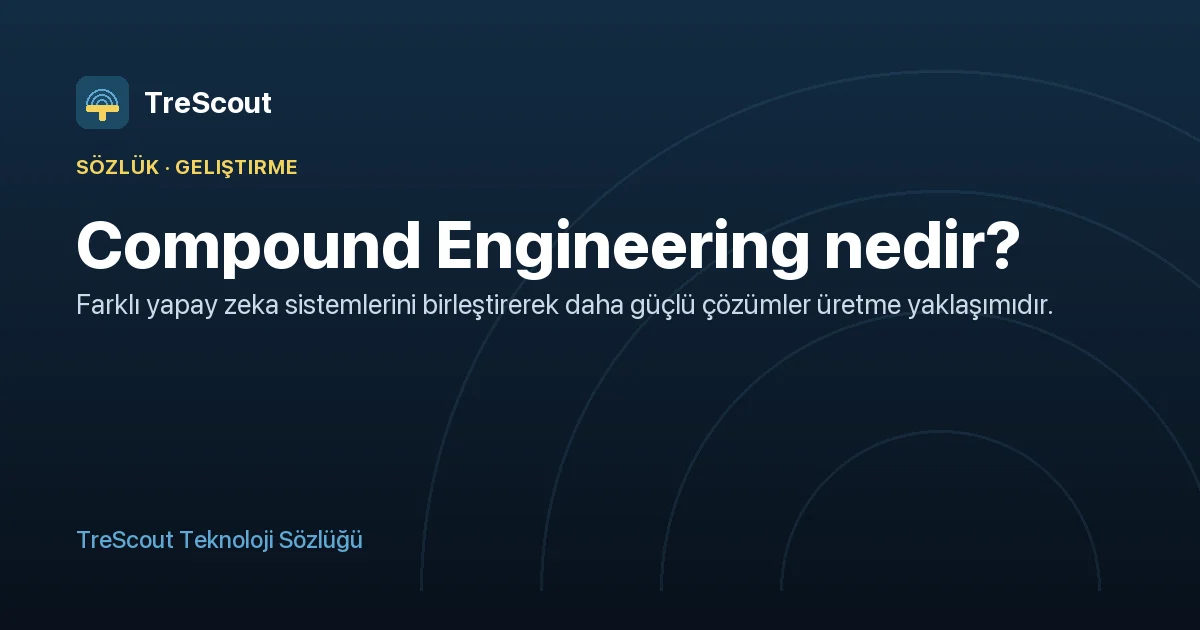
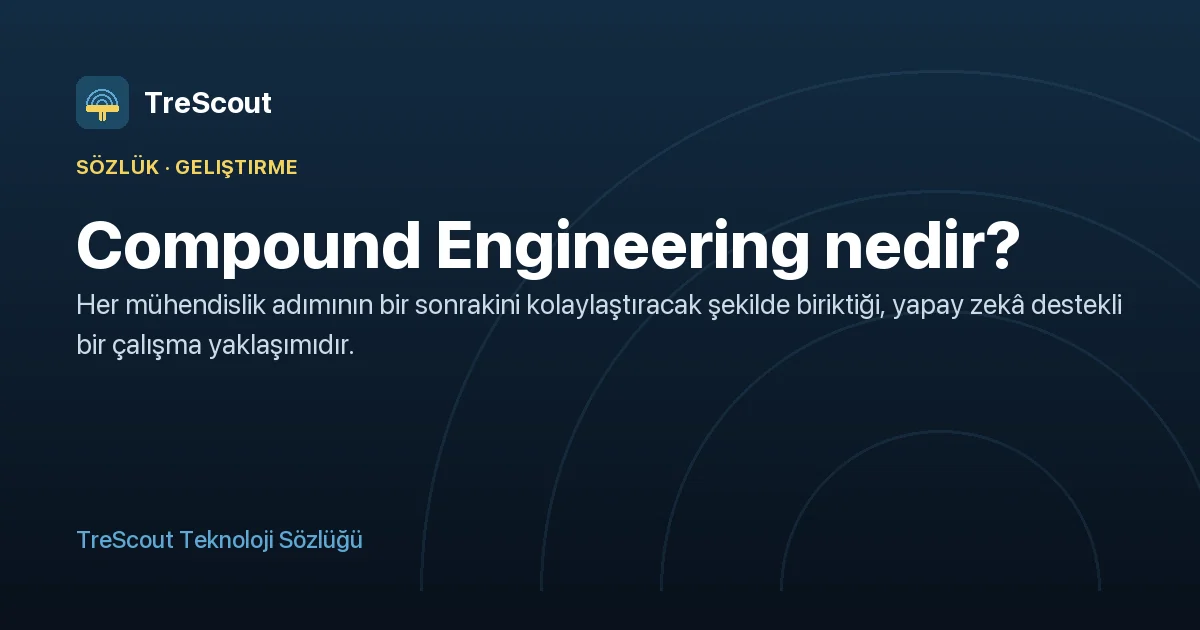
fix(claude-code): Sözlük · 2 tanım doğruluk düzeltmesi
İçerik doğruluk incelemesi sonucu: knowledge-graph kısa tanımı 'görselleştiren' → 'birbirine bağlayan yapılandırılmış bilgi ağı' (KG görselleştirme değil, ilişki temsili). compound-engineering kısa+tanım 'farklı AI sistemlerini birleştirme' yanlış çerçevesinden gerçek anlamına düzeltildi: her mühendislik adımının bir sonrakini kolaylaştıracak şekilde biriktiği AI-destekli yaklaşım. Sayfa + .md + manifest + index + OG kartı güncellendi.

Changed region(s): [[0.0617, 0.4524, 0.925, 0.573]]

diff --git a/dictionary/compound-engineering/index.html b/dictionary/compound-engineering/index.html
@@ -4,11 +4,11 @@
 <meta charset="UTF-8">
 <meta name="viewport" content="width=device-width, initial-scale=1">
 <title>Compound Engineering nedir? · TreScout Sözlük</title>
-<meta name="description" content="Farklı yapay zeka sistemlerini birleştirerek daha güçlü çözümler üretme yaklaşımıdır.">
+<meta name="description" content="Her mühendislik adımının bir sonrakini kolaylaştıracak şekilde biriktiği, yapay zekâ destekli bir çalışma yaklaşımıdır.">
 <link rel="icon" type="image/svg+xml" href="/favicon.svg">
 <link rel="canonical" href="https://trescout.com/dictionary/compound-engineering/">
 <meta property="og:title" content="Compound Engineering nedir?">
-<meta property="og:description" content="Farklı yapay zeka sistemlerini birleştirerek daha güçlü çözümler üretme yaklaşımıdır.">
+<meta property="og:description" content="Her mühendislik adımının bir sonrakini kolaylaştıracak şekilde biriktiği, yapay zekâ destekli bir çalışma yaklaşımıdır.">
 <meta property="og:url" content="https://trescout.com/dictionary/compound-engineering/">
 <meta property="og:type" content="article">
 <meta property="og:locale" content="tr_TR">
@@ -25,7 +25,7 @@
   "@type": "DefinedTerm",
   "name": "Compound Engineering",
   "inLanguage": "tr",
-  "description": "Compound engineering, tek bir modelin sınırlarını aşmak için farklı yapay zeka araçlarını, veri kaynaklarını ve mantıksal süreçleri bir araya getirme disiplinidir. Daha akıllı ve çok yönlü sistemler kurmayı hedefler.",
+  "description": "Compound engineering, yazılım geliştirmenin her adımını (planlama, kodlama, inceleme, öğrenme) yapay zekâ ile yürütüp çıkan öğrenmeleri kaydederek bir sonraki işi kolaylaştırmayı hedefler. Böylece kazanımlar zamanla birikir, ekip her seferinde daha hızlı ve tutarlı çalışır.",
   "inDefinedTermSet": {
     "@type": "DefinedTermSet",
     "name": "TreScout Teknoloji Sözlüğü",
@@ -73,8 +73,8 @@
 <div class="disc-top"><span class="disc-eyebrow">Sözlük · Geliştirme</span><time class="dict-time" datetime="2026-06-03">Son güncelleme: 3 Haziran 2026</time></div>
 <h1 class="disc-title">Compound Engineering <span class="disc-accent">nedir?</span></h1>
 
-<p class="disc-lead">Farklı yapay zeka sistemlerini birleştirerek daha güçlü çözümler üretme yaklaşımıdır.</p>
-<section class="disc-sec"><h2>Tanım</h2><p>Compound engineering, tek bir modelin sınırlarını aşmak için farklı yapay zeka araçlarını, veri kaynaklarını ve mantıksal süreçleri bir araya getirme disiplinidir. Daha akıllı ve çok yönlü sistemler kurmayı hedefler.</p></section><div class="dict-analogy">Şöyle düşünün: Sadece bir tornavida kullanmak yerine, bir matkap, testere ve ölçüm cihazını birleştirerek tam bir atölye kurmak gibidir.</div><section class="disc-sec"><h2>Nasıl çalışır?</h2><p>Bir yapay zeka modeli bir görevi yaparken, diğeri veriyi kontrol eder, üçüncüsü ise sonucu kullanıcıya sunar. Bu parçalar bir zincir gibi birbirine bağlanarak tek bir sistem gibi çalışır.</p></section><section class="disc-sec"><h2>Nerede kullanılır?</h2><p>Karmaşık iş akışlarını otomatize eden yapay zeka ajanlarında ve gelişmiş veri analiz platformlarında kullanılır.</p></section><section class="disc-sec"><h2>Sık karıştırılanlar</h2><p>Sadece tek bir model eğitmek olan &#x27;fine-tuning&#x27; ile karıştırılır, ancak compound engineering mevcut modellerin yeteneklerini birleştirmeye odaklanır.</p></section><section class="disc-sec"><h2>Sıkça sorulanlar</h2><div class="dict-faq"><div class="dict-faq-item"><p class="dict-faq-q">Neden tek bir model yetmiyor?</p><p class="dict-faq-a">Karmaşık görevlerde tek bir model her zaman en iyi sonucu vermeyebilir, parçaları birleştirmek hata payını azaltır.</p></div><div class="dict-faq-item"><p class="dict-faq-q">Bu yaklaşım zor mu?</p><p class="dict-faq-a">Parçaların birbirine uyumlu çalışmasını sağlamak ciddi bir planlama ve mühendislik gerektirir.</p></div></div></section><section class="disc-sec"><h2>İlgili terimler</h2><div class="dict-related"><a href="/dictionary/compound-engineering/">Compound Engineering</a><a href="/dictionary/ai-agent/">AI Agent</a><a href="/dictionary/agentic-ai/">Agentic AI</a><a href="/dictionary/rag/">RAG</a></div></section>
+<p class="disc-lead">Her mühendislik adımının bir sonrakini kolaylaştıracak şekilde biriktiği, yapay zekâ destekli bir çalışma yaklaşımıdır.</p>
+<section class="disc-sec"><h2>Tanım</h2><p>Compound engineering, yazılım geliştirmenin her adımını (planlama, kodlama, inceleme, öğrenme) yapay zekâ ile yürütüp çıkan öğrenmeleri kaydederek bir sonraki işi kolaylaştırmayı hedefler. Böylece kazanımlar zamanla birikir, ekip her seferinde daha hızlı ve tutarlı çalışır.</p></section><div class="dict-analogy">Şöyle düşünün: Sadece bir tornavida kullanmak yerine, bir matkap, testere ve ölçüm cihazını birleştirerek tam bir atölye kurmak gibidir.</div><section class="disc-sec"><h2>Nasıl çalışır?</h2><p>Bir yapay zeka modeli bir görevi yaparken, diğeri veriyi kontrol eder, üçüncüsü ise sonucu kullanıcıya sunar. Bu parçalar bir zincir gibi birbirine bağlanarak tek bir sistem gibi çalışır.</p></section><section class="disc-sec"><h2>Nerede kullanılır?</h2><p>Karmaşık iş akışlarını otomatize eden yapay zeka ajanlarında ve gelişmiş veri analiz platformlarında kullanılır.</p></section><section class="disc-sec"><h2>Sık karıştırılanlar</h2><p>Sadece tek bir model eğitmek olan &#x27;fine-tuning&#x27; ile karıştırılır, ancak compound engineering mevcut modellerin yeteneklerini birleştirmeye odaklanır.</p></section><section class="disc-sec"><h2>Sıkça sorulanlar</h2><div class="dict-faq"><div class="dict-faq-item"><p class="dict-faq-q">Neden tek bir model yetmiyor?</p><p class="dict-faq-a">Karmaşık görevlerde tek bir model her zaman en iyi sonucu vermeyebilir, parçaları birleştirmek hata payını azaltır.</p></div><div class="dict-faq-item"><p class="dict-faq-q">Bu yaklaşım zor mu?</p><p class="dict-faq-a">Parçaların birbirine uyumlu çalışmasını sağlamak ciddi bir planlama ve mühendislik gerektirir.</p></div></div></section><section class="disc-sec"><h2>İlgili terimler</h2><div class="dict-related"><a href="/dictionary/compound-engineering/">Compound Engineering</a><a href="/dictionary/ai-agent/">AI Agent</a><a href="/dictionary/agentic-ai/">Agentic AI</a><a href="/dictionary/rag/">RAG</a></div></section>
 <section class="disc-sec"><h2>İlgili araçlar</h2><div class="dict-related"><a href="/discover/compound-engineering-plugin/">Compound Engineering</a></div></section>
 <aside class="disc-cta"><p><strong>Her sabah Sektörden Terimler e-postanızda.</strong> Teknoloji dünyasında her gün yeni bir terim çıkıyor; geride kalmamak için TreScout'a katılın.</p><form class="cta-form disc-cta-form js-subscribe" data-source="dictionary" novalidate><div class="form-row"><input class="input" type="email" name="email" placeholder="E-postanızı yazın" autocomplete="email" required><button class="btn btn-primary" type="submit">Erken erişim</button></div><label class="form-consent"><input type="checkbox" name="consent" required><span><a href="/privacy.html" target="_blank" rel="noopener">Aydınlatma Metni</a>'ni okudum, e-postamın bu amaçla işlenmesini onaylıyorum.</span></label><input type="text" name="website" tabindex="-1" autocomplete="off" aria-hidden="true" class="hp-field"></form><a class="btn btn-ghost disc-cta-all" href="/dictionary/">Tüm sözlük →</a></aside>
 <p class="disc-disclaimer">Bu açıklama TreScout için sade dille hazırlandı · yanlış ya da eksik gördüğünüz bir şey olursa <a href="mailto:hello@trescout.com">hello@trescout.com</a>. TreScout her gün GitHub, Hacker News ve HuggingFace trendlerini Türkçe özetler.</p>

diff --git a/dictionary/index.html b/dictionary/index.html
@@ -338,7 +338,7 @@
 <a class="dict-card" data-cat="dev" data-search="API Application Programming Interface İki farklı yazılımın birbirleriyle konuşmasını sağlayan dijital köprüdür. api" href="/dictionary/api/"><h2 class="dict-card-term">API</h2><p class="dict-card-en">Application Programming Interface</p><p class="dict-card-kisa">İki farklı yazılımın birbirleriyle konuşmasını sağlayan dijital köprüdür.</p></a>
 <a class="dict-card" data-cat="ai" data-search="Artificial Intelligence AI · Yapay Zekâ İnsan zekâsını taklit ederek öğrenme, mantık yürütme ve problem çözme yeteneğine sahip bilgisayar sistemleri. artificial-intelligence" href="/dictionary/artificial-intelligence/"><h2 class="dict-card-term">Artificial Intelligence</h2><p class="dict-card-en">AI · Yapay Zekâ</p><p class="dict-card-kisa">İnsan zekâsını taklit ederek öğrenme, mantık yürütme ve problem çözme yeteneğine sahip bilgisayar sistemleri.</p></a>
 <a class="dict-card" data-cat="dev" data-search="CLI Command Line Interface Bilgisayara komutları yazılı metinler ile verme yöntemidir. cli" href="/dictionary/cli/"><h2 class="dict-card-term">CLI</h2><p class="dict-card-en">Command Line Interface</p><p class="dict-card-kisa">Bilgisayara komutları yazılı metinler ile verme yöntemidir.</p></a>
-<a class="dict-card" data-cat="dev" data-search="Compound Engineering  Farklı yapay zeka sistemlerini birleştirerek daha güçlü çözümler üretme yaklaşımıdır. compound-engineering" href="/dictionary/compound-engineering/"><h2 class="dict-card-term">Compound Engineering</h2><p class="dict-card-kisa">Farklı yapay zeka sistemlerini birleştirerek daha güçlü çözümler üretme yaklaşımıdır.</p></a>
+<a class="dict-card" data-cat="dev" data-search="Compound Engineering  Her mühendislik adımının bir sonrakini kolaylaştıracak şekilde biriktiği, yapay zekâ destekli bir çalışma yaklaşımıdır. compound-engineering" href="/dictionary/compound-engineering/"><h2 class="dict-card-term">Compound Engineering</h2><p class="dict-card-kisa">Her mühendislik adımının bir sonrakini kolaylaştıracak şekilde biriktiği, yapay zekâ destekli bir çalışma yaklaşımıdır.</p></a>
 <a class="dict-card" data-cat="ai" data-search="Context Window  Yapay zekanın tek seferde hatırlayabildiği ve işleyebildiği bilgi kapasitesidir. context-window" href="/dictionary/context-window/"><h2 class="dict-card-term">Context Window</h2><p class="dict-card-kisa">Yapay zekanın tek seferde hatırlayabildiği ve işleyebildiği bilgi kapasitesidir.</p></a>
 <a class="dict-card" data-cat="data" data-search="Data Pipeline  Verilerin bir yerden alınıp işlenerek başka bir yere taşınması sürecidir. data-pipeline" href="/dictionary/data-pipeline/"><h2 class="dict-card-term">Data Pipeline</h2><p class="dict-card-kisa">Verilerin bir yerden alınıp işlenerek başka bir yere taşınması sürecidir.</p></a>
 <a class="dict-card" data-cat="ai" data-search="Diffusion Model  Gürültülü veriden temiz ve anlamlı görseller üreten bir yapay zeka yöntemidir. diffusion-model" href="/dictionary/diffusion-model/"><h2 class="dict-card-term">Diffusion Model</h2><p class="dict-card-kisa">Gürültülü veriden temiz ve anlamlı görseller üreten bir yapay zeka yöntemidir.</p></a>
@@ -352,7 +352,7 @@
 <a class="dict-card" data-cat="ai" data-search="Generative AI  Yeni içerik, metin, görsel veya ses üretebilen yapay zeka teknolojilerinin genel adıdır. generative-ai" href="/dictionary/generative-ai/"><h2 class="dict-card-term">Generative AI</h2><p class="dict-card-kisa">Yeni içerik, metin, görsel veya ses üretebilen yapay zeka teknolojilerinin genel adıdır.</p></a>
 <a class="dict-card" data-cat="ai" data-search="Hallucination  Yapay zekanın gerçekte olmayan bilgileri sanki doğruymuş gibi sunmasıdır. hallucination" href="/dictionary/hallucination/"><h2 class="dict-card-term">Hallucination</h2><p class="dict-card-kisa">Yapay zekanın gerçekte olmayan bilgileri sanki doğruymuş gibi sunmasıdır.</p></a>
 <a class="dict-card" data-cat="ai" data-search="Inference  Eğitilmiş bir yapay zeka modelinin yeni veriler üzerinde tahmin yürütme sürecidir. inference" href="/dictionary/inference/"><h2 class="dict-card-term">Inference</h2><p class="dict-card-kisa">Eğitilmiş bir yapay zeka modelinin yeni veriler üzerinde tahmin yürütme sürecidir.</p></a>
-<a class="dict-card" data-cat="data" data-search="Knowledge Graph  Veriler arasındaki ilişkileri görselleştiren bir bilgi ağıdır. knowledge-graph" href="/dictionary/knowledge-graph/"><h2 class="dict-card-term">Knowledge Graph</h2><p class="dict-card-kisa">Veriler arasındaki ilişkileri görselleştiren bir bilgi ağıdır.</p></a>
+<a class="dict-card" data-cat="data" data-search="Knowledge Graph  Veriler ve kavramlar arasındaki ilişkileri birbirine bağlayan yapılandırılmış bir bilgi ağıdır. knowledge-graph" href="/dictionary/knowledge-graph/"><h2 class="dict-card-term">Knowledge Graph</h2><p class="dict-card-kisa">Veriler ve kavramlar arasındaki ilişkileri birbirine bağlayan yapılandırılmış bir bilgi ağıdır.</p></a>
 <a class="dict-card" data-cat="ai" data-search="LLM Large Language Model İnsan dilini anlayan, analiz eden ve metin üretebilen devasa yapay zeka modelleridir. llm" href="/dictionary/llm/"><h2 class="dict-card-term">LLM</h2><p class="dict-card-en">Large Language Model</p><p class="dict-card-kisa">İnsan dilini anlayan, analiz eden ve metin üretebilen devasa yapay zeka modelleridir.</p></a>
 <a class="dict-card" data-cat="dev" data-search="Markdown  Metinleri biçimlendirmek için kullanılan, basit işaretlerle yazı yazmayı sağlayan hafif bir biçimlendirme dili. markdown" href="/dictionary/markdown/"><h2 class="dict-card-term">Markdown</h2><p class="dict-card-kisa">Metinleri biçimlendirmek için kullanılan, basit işaretlerle yazı yazmayı sağlayan hafif bir biçimlendirme dili.</p></a>
 <a class="dict-card" data-cat="ai" data-search="MCP Model Context Protocol Yapay zeka modellerinin dış dünyadaki verilerle güvenli şekilde konuşmasını sağlayan standarttır. mcp" href="/dictionary/mcp/"><h2 class="dict-card-term">MCP</h2><p class="dict-card-en">Model Context Protocol</p><p class="dict-card-kisa">Yapay zeka modellerinin dış dünyadaki verilerle güvenli şekilde konuşmasını sağlayan standarttır.</p></a>

diff --git a/dictionary/knowledge-graph/index.html b/dictionary/knowledge-graph/index.html
@@ -4,11 +4,11 @@
 <meta charset="UTF-8">
 <meta name="viewport" content="width=device-width, initial-scale=1">
 <title>Knowledge Graph nedir? · TreScout Sözlük</title>
-<meta name="description" content="Veriler arasındaki ilişkileri görselleştiren bir bilgi ağıdır.">
+<meta name="description" content="Veriler ve kavramlar arasındaki ilişkileri birbirine bağlayan yapılandırılmış bir bilgi ağıdır.">
 <link rel="icon" type="image/svg+xml" href="/favicon.svg">
 <link rel="canonical" href="https://trescout.com/dictionary/knowledge-graph/">
 <meta property="og:title" content="Knowledge Graph nedir?">
-<meta property="og:description" content="Veriler arasındaki ilişkileri görselleştiren bir bilgi ağıdır.">
+<meta property="og:description" content="Veriler ve kavramlar arasındaki ilişkileri birbirine bağlayan yapılandırılmış bir bilgi ağıdır.">
 <meta property="og:url" content="https://trescout.com/dictionary/knowledge-graph/">
 <meta property="og:type" content="article">
 <meta property="og:locale" content="tr_TR">
@@ -73,7 +73,7 @@
 <div class="disc-top"><span class="disc-eyebrow">Sözlük · Veri &amp; Altyapı</span><time class="dict-time" datetime="2026-06-03">Son güncelleme: 3 Haziran 2026</time></div>
 <h1 class="disc-title">Knowledge Graph <span class="disc-accent">nedir?</span></h1>
 
-<p class="disc-lead">Veriler arasındaki ilişkileri görselleştiren bir bilgi ağıdır.</p>
+<p class="disc-lead">Veriler ve kavramlar arasındaki ilişkileri birbirine bağlayan yapılandırılmış bir bilgi ağıdır.</p>
 <section class="disc-sec"><h2>Tanım</h2><p>Bilgi grafiği, verilerin birbirleriyle olan ilişkilerini bir harita gibi birbirine bağlayan yapılandırılmış bir veri modelidir. Bu sayede yapay zeka, birbirinden bağımsız görünen bilgiler arasındaki gizli bağları kolayca keşfedebilir.</p></section><div class="dict-analogy">Şöyle düşünün: Bir dedektif panosunda fotoğrafların ve isimlerin kırmızı iplerle birbirine bağlanarak bir suç ağının çözülmesi gibidir.</div><section class="disc-sec"><h2>Nasıl çalışır?</h2><p>Bilgiler düğüm noktaları ve bu noktaları birbirine bağlayan çizgiler şeklinde kaydedilir. Örneğin, bir kişi düğümü ile bir şirket düğümü arasında çalışıyor ilişkisi kurulur.</p></section><section class="disc-sec"><h2>Nerede kullanılır?</h2><p>Arama motorlarında daha doğru sonuçlar sunmak ve karmaşık kurumsal verileri analiz etmek için kullanılır.</p></section><section class="disc-sec"><h2>Sık karıştırılanlar</h2><p>Sıradan bir Excel tablosu veya liste değildir çünkü burada verinin kendisinden ziyade veriler arasındaki ilişki önemlidir.</p></section><section class="disc-sec"><h2>Sıkça sorulanlar</h2><div class="dict-faq"><div class="dict-faq-item"><p class="dict-faq-q">Bilgi grafiği ile RAG arasındaki fark nedir?</p><p class="dict-faq-a">RAG belgeleri ararken, bilgi grafiği bu belgelerdeki kavramların mantıksal ilişkilerini haritalandırır.</p></div><div class="dict-faq-item"><p class="dict-faq-q">Neden grafik deniyor?</p><p class="dict-faq-a">Matematiksel olarak noktalar ve çizgilerden oluşan bir ağ yapısı olduğu için bu isimle anılır.</p></div></div></section><section class="disc-sec"><h2>İlgili terimler</h2><div class="dict-related"><a href="/dictionary/rag/">RAG</a><a href="/dictionary/llm/">LLM</a><a href="/dictionary/embedding/">Embedding</a><a href="/dictionary/vector-database/">Vector Database</a></div></section>
 <section class="disc-sec"><h2>İlgili araçlar</h2><div class="dict-related"><a href="/discover/understand-anything/">Understand Anything</a></div></section>
 <aside class="disc-cta"><p><strong>Her sabah Sektörden Terimler e-postanızda.</strong> Teknoloji dünyasında her gün yeni bir terim çıkıyor; geride kalmamak için TreScout'a katılın.</p><form class="cta-form disc-cta-form js-subscribe" data-source="dictionary" novalidate><div class="form-row"><input class="input" type="email" name="email" placeholder="E-postanızı yazın" autocomplete="email" required><button class="btn btn-primary" type="submit">Erken erişim</button></div><label class="form-consent"><input type="checkbox" name="consent" required><span><a href="/privacy.html" target="_blank" rel="noopener">Aydınlatma Metni</a>'ni okudum, e-postamın bu amaçla işlenmesini onaylıyorum.</span></label><input type="text" name="website" tabindex="-1" autocomplete="off" aria-hidden="true" class="hp-field"></form><a class="btn btn-ghost disc-cta-all" href="/dictionary/">Tüm sözlük →</a></aside>

diff --git a/dictionary/compound-engineering.md b/dictionary/compound-engineering.md
@@ -3,10 +3,10 @@
 **Kategori:** Geliştirme  
 **Son güncelleme:** 2026-06-03
 
-Farklı yapay zeka sistemlerini birleştirerek daha güçlü çözümler üretme yaklaşımıdır.
+Her mühendislik adımının bir sonrakini kolaylaştıracak şekilde biriktiği, yapay zekâ destekli bir çalışma yaklaşımıdır.
 
 ## Tanım
-Compound engineering, tek bir modelin sınırlarını aşmak için farklı yapay zeka araçlarını, veri kaynaklarını ve mantıksal süreçleri bir araya getirme disiplinidir. Daha akıllı ve çok yönlü sistemler kurmayı hedefler.
+Compound engineering, yazılım geliştirmenin her adımını (planlama, kodlama, inceleme, öğrenme) yapay zekâ ile yürütüp çıkan öğrenmeleri kaydederek bir sonraki işi kolaylaştırmayı hedefler. Böylece kazanımlar zamanla birikir, ekip her seferinde daha hızlı ve tutarlı çalışır.
 
 ## Bir benzetmeyle
 Şöyle düşünün: Sadece bir tornavida kullanmak yerine, bir matkap, testere ve ölçüm cihazını birleştirerek tam bir atölye kurmak gibidir.

diff --git a/dictionary/knowledge-graph.md b/dictionary/knowledge-graph.md
@@ -3,7 +3,7 @@
 **Kategori:** Veri & Altyapı  
 **Son güncelleme:** 2026-06-03
 
-Veriler arasındaki ilişkileri görselleştiren bir bilgi ağıdır.
+Veriler ve kavramlar arasındaki ilişkileri birbirine bağlayan yapılandırılmış bir bilgi ağıdır.
 
 ## Tanım
 Bilgi grafiği, verilerin birbirleriyle olan ilişkilerini bir harita gibi birbirine bağlayan yapılandırılmış bir veri modelidir. Bu sayede yapay zeka, birbirinden bağımsız görünen bilgiler arasındaki gizli bağları kolayca keşfedebilir.
